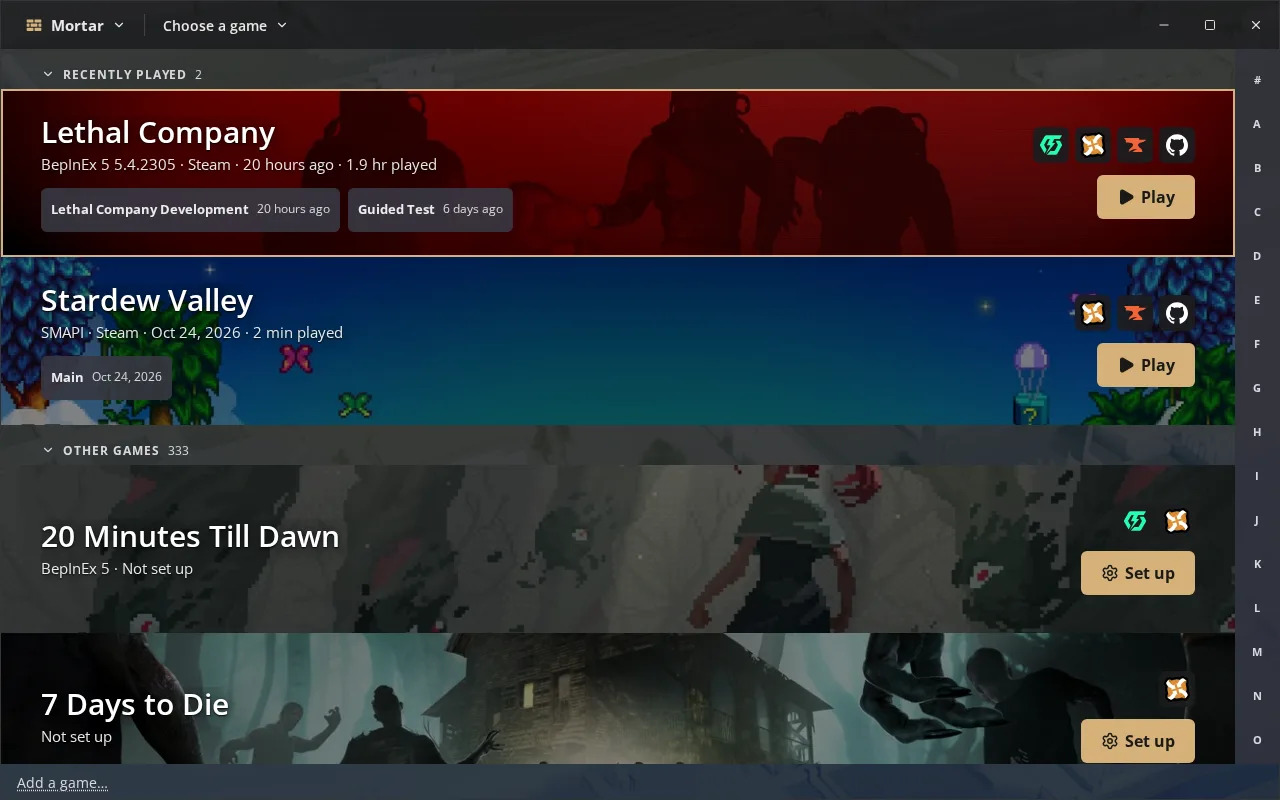
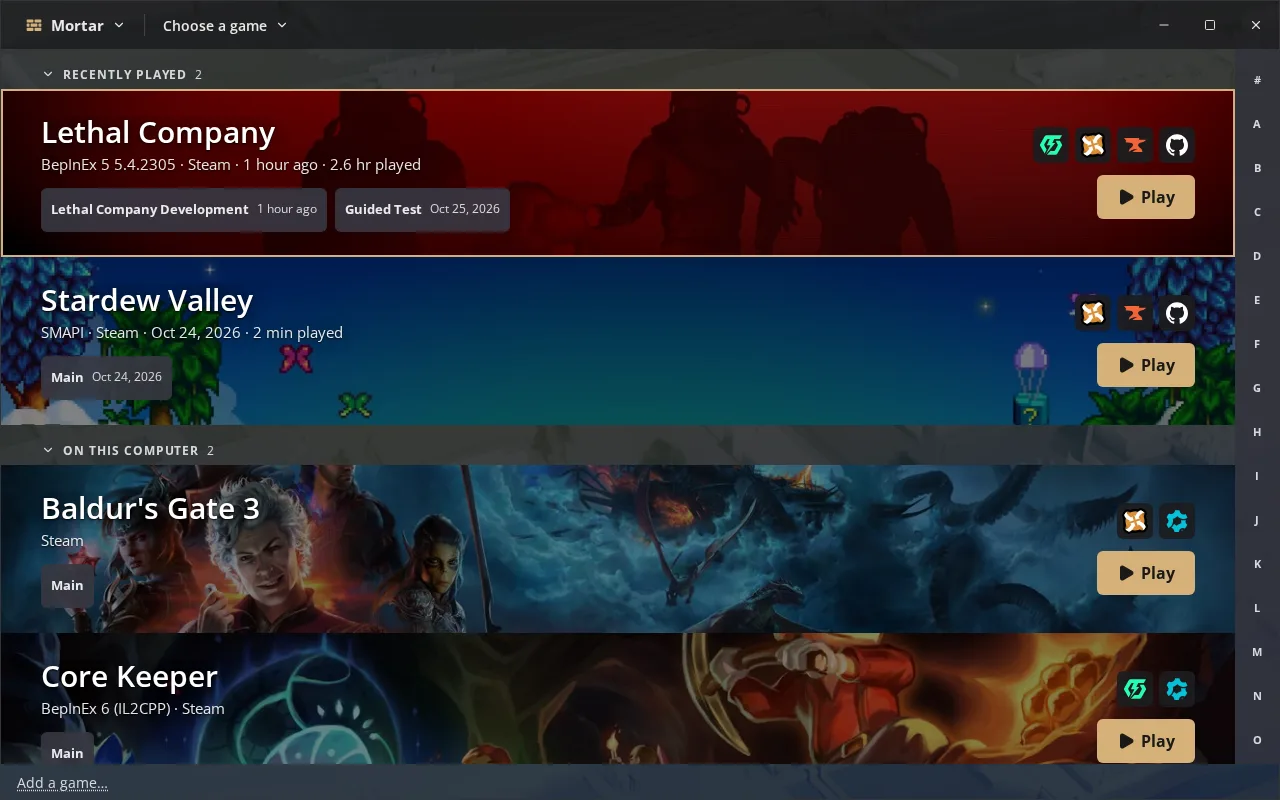
docs(site): refresh every Mortar picture, with mod.io in use and each account answering

Changed region(s): [[0.0, 0.5312, 0.9688, 0.9688], [0.1875, 0.1875, 0.4062, 0.3125]]

diff --git a/frontend/e2e/screenScenes.ts b/frontend/e2e/screenScenes.ts
@@ -14,12 +14,55 @@ interface Helpers {
   // A profile whose game has mod projects in the Develop tab.
   developing: { game: string; name: string }
   baldurs: { game: string; name: string }
+  coreKeeper: { game: string; name: string }
   settings: (page: Page, section: string) => Promise<void>
   stepMs: number
 }
 
 /** The news posts' scenes: 0.3.13's Change version, Add a game and Multiplayer mod list, and 0.3.14's Develop tab and
  * Preferred source, and 0.5.0's mod.io sign-in, Load order and Release everywhere. */
+// Asks every site once, so each row of the picture shows the site answering.
+async function testEveryAccount(page: Page, stepMs: number) {
+  const main = page.getByRole('main')
+  for (const name of ['Recheck', 'Test']) {
+    const buttons = main.getByRole('button', { name, exact: true })
+    for (const button of await buttons.all()) {
+      if (await button.isEnabled()) {
+        await button.click({ timeout: stepMs })
+      }
+    }
+  }
+  await main
+    .getByText(/has not asked/u)
+    .first()
+    .waitFor({ state: 'detached', timeout: 30_000 })
+}
+
+const accountsScene = (h: Helpers) => ({
+  name: 'accounts',
+  file: 'accounts-0-5-0.png',
+  ...h.desk,
+  profile: h.developing,
+  steps: async (page: Page) => {
+    await h.settings(page, 'Accounts')
+    await testEveryAccount(page, h.stepMs)
+    await page
+      .getByText('mod.io', { exact: true })
+      .first()
+      .evaluate((el) => el.scrollIntoView({ block: 'start' }))
+  },
+})
+
+// The rows are stubbed and the profile empty, so the counts are told to match what the picture shows.
+const showStubbedModCount = (page: Page) =>
+  page.evaluate(() => {
+    for (const el of document.querySelectorAll('span, div')) {
+      if (el.childElementCount === 0 && el.textContent === '0 mods') {
+        el.textContent = '4 mods'
+      }
+    }
+  })
+
 export const releaseScenes = (h: Helpers) => [
   {
     name: 'change-version',
@@ -102,15 +145,17 @@ export const releaseScenes = (h: Helpers) => [
     name: 'modio',
     file: 'modio-0-5-0.png',
     ...h.desk,
-    profile: h.developing,
+    profile: h.coreKeeper,
     steps: async (page) => {
-      await h.settings(page, 'Accounts')
+      await h.click(page, 'tab', 'Browse')
+      await h.click(page, 'button', /^mod\.io/u)
       await page
-        .getByText('mod.io', { exact: true })
+        .getByText(/results/u)
         .first()
-        .evaluate((el) => el.scrollIntoView({ block: 'start' }))
+        .waitFor({ timeout: 20_000 })
     },
   },
+  accountsScene(h),
   {
     name: 'load-order',
     file: 'load-order-0-5-0.png',
@@ -120,6 +165,7 @@ export const releaseScenes = (h: Helpers) => [
       await page.route('**/wails/runtime', loadOrderStub())
       await h.click(page, 'tab', 'Load order')
       await page.getByText('Party Limit Begone', { exact: true }).waitFor({ timeout: h.stepMs })
+      await showStubbedModCount(page)
     },
   },
   {

diff --git a/frontend/e2e/renderStubbed.ts b/frontend/e2e/renderStubbed.ts
@@ -37,7 +37,7 @@ const releaseEverywhereStub = (extra: Record<number, unknown> = {}) =>
       { id: 'nexus', configured: true, ready: false },
       { id: 'github', configured: true, ready: true },
     ],
-    [PACK]: { zip: '/tmp/render.zip', issues: [] },
+    [PACK]: { ok: true, zip: '/tmp/render.zip', issues: [] },
     [UPLOAD_GITHUB]: 'https://github.com/example/mod/releases/tag/v1.0.0',
     ...extra,
   })

diff --git a/frontend/e2e/screens.ts b/frontend/e2e/screens.ts
@@ -345,6 +345,7 @@ const SITE: Scene[] = [
     profile: LETHAL_MEASURED,
     developing: LETHAL,
     baldurs: { game: "Baldur's Gate 3", name: 'Main' },
+    coreKeeper: { game: 'Core Keeper', name: 'Main' },
     settings,
     stepMs: STEP_MS,
   }),

diff --git a/web/src/content/news/mortar-0-5-0.md b/web/src/content/news/mortar-0-5-0.md
@@ -8,6 +8,10 @@ highlights:
     title: mod.io is a source
     text: Sign in with a read-only token in Settings › Accounts to browse and install from mod.io. Baldur's Gate 3, Blade & Sorcery, Timberborn and more use it, and share links carry mod.io files.
     image: /img/modio-0-5-0.webp
+  - area: Accounts
+    title: Every site at a glance
+    text: Settings › Accounts shows who you are signed in as on each site, and each site's connection, with a Recheck when you want to be sure.
+    image: /img/accounts-0-5-0.webp
   - area: Load order
     title: See the order the game will use
     text: Baldur's Gate 3 and Bannerlord get a Load order tab that lists mods top to bottom and flags what is wrong with them. Baldur's Gate 3's can be reordered.

diff --git a/web/src/content/news/steam-deck-game-mode.md b/web/src/content/news/steam-deck-game-mode.md
@@ -3,7 +3,7 @@ kind: howto
 title: "Play from Steam Deck Game Mode"
 summary: "Set Mortar up once in Desktop Mode, then start each profile from Game Mode like any other game."
 date: 2026-10-20
-image: /img/deck.webp
+image: /img/deck-0-4-0.webp
 ---
 
 Mortar runs on the Steam Deck as the x86_64 AppImage. Set it up once in Desktop Mode, then each profile you add to Steam plays from Game Mode with its own mods.

diff --git a/web/src/content/news/share-a-profile.md b/web/src/content/news/share-a-profile.md
@@ -3,7 +3,7 @@ kind: howto
 title: "Share a profile as a link"
 summary: "Send a whole profile to a friend as one link or a .mortar file, and get everyone on the same mods before you join."
 date: 2026-10-20
-image: /img/mods.webp
+image: /img/mods-0-4-0.webp
 ---
 
 A Mortar profile is one set of mods. Send it to a friend and nobody rebuilds the list by hand.

diff --git a/web/src/content/news/move-from-another-manager.md b/web/src/content/news/move-from-another-manager.md
@@ -3,7 +3,7 @@ kind: howto
 title: "Move from r2modman, Gale or Vortex"
 summary: "Mortar reads the profiles other managers made, previews them, and leaves the originals as they were."
 date: 2026-10-20
-image: /img/profile.webp
+image: /img/profile-0-4-0.webp
 ---
 
 Mortar reads the profiles your current manager already has.
